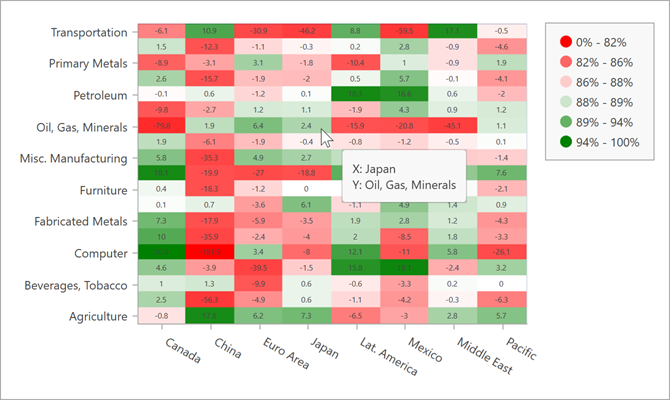
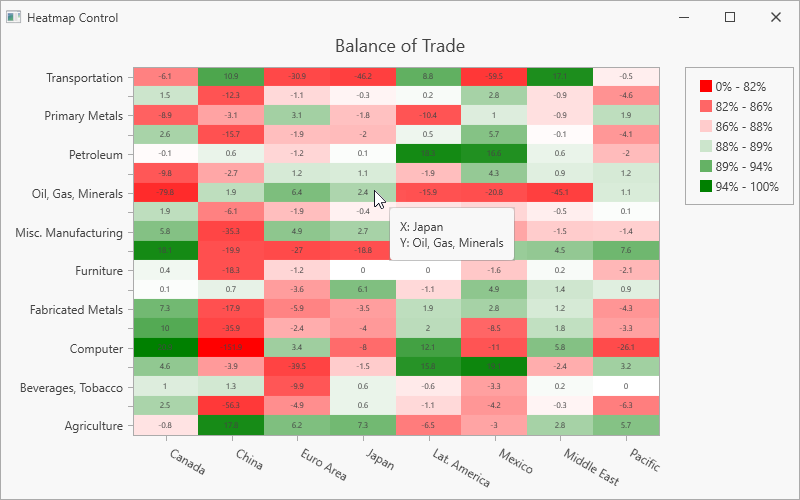
add title

diff --git a/CS/MainWindow.xaml b/CS/MainWindow.xaml
@@ -5,12 +5,15 @@
     xmlns:dxh="http://schemas.devexpress.com/winfx/2008/xaml/heatmap" 
     xmlns:dxc="http://schemas.devexpress.com/winfx/2008/xaml/charts"
     x:Class="HeatmapDataSource.MainWindow"
-    Title="MainWindow" Height="500" Width="800">
+    Title="Heatmap Control" Height="500" Width="800">
     <Grid>
         <dxh:HeatmapControl ToolTipEnabled="True">
             <dxh:HeatmapControl.ToolTipOptions>
                 <dxh:HeatmapToolTipOptions Pattern="X: {X}&#x0a;Y: {Y}" />
             </dxh:HeatmapControl.ToolTipOptions>
+            <dxh:HeatmapControl.Titles>
+                <dxc:Title Content="Balance of Trade" HorizontalAlignment="Center"/>
+            </dxh:HeatmapControl.Titles>
             <dxh:HeatmapControl.DataAdapter>
                 <dxh:HeatmapDataSourceAdapter
                     DataSource="{Binding}"

diff --git a/VB/MainWindow.xaml b/VB/MainWindow.xaml
@@ -5,12 +5,15 @@
     xmlns:dxh="http://schemas.devexpress.com/winfx/2008/xaml/heatmap" 
     xmlns:dxc="http://schemas.devexpress.com/winfx/2008/xaml/charts"
     x:Class="HeatmapDataSource.MainWindow"
-    Title="MainWindow" Height="500" Width="800">
+    Title="Heatmap Control" Height="500" Width="800">
     <Grid>
         <dxh:HeatmapControl ToolTipEnabled="True">
             <dxh:HeatmapControl.ToolTipOptions>
                 <dxh:HeatmapToolTipOptions Pattern="X: {X}&#x0a;Y: {Y}" />
             </dxh:HeatmapControl.ToolTipOptions>
+            <dxh:HeatmapControl.Titles>
+                <dxc:Title Content="Balance of Trade" HorizontalAlignment="Center"/>
+            </dxh:HeatmapControl.Titles>
             <dxh:HeatmapControl.DataAdapter>
                 <dxh:HeatmapDataSourceAdapter
                     DataSource="{Binding}"
